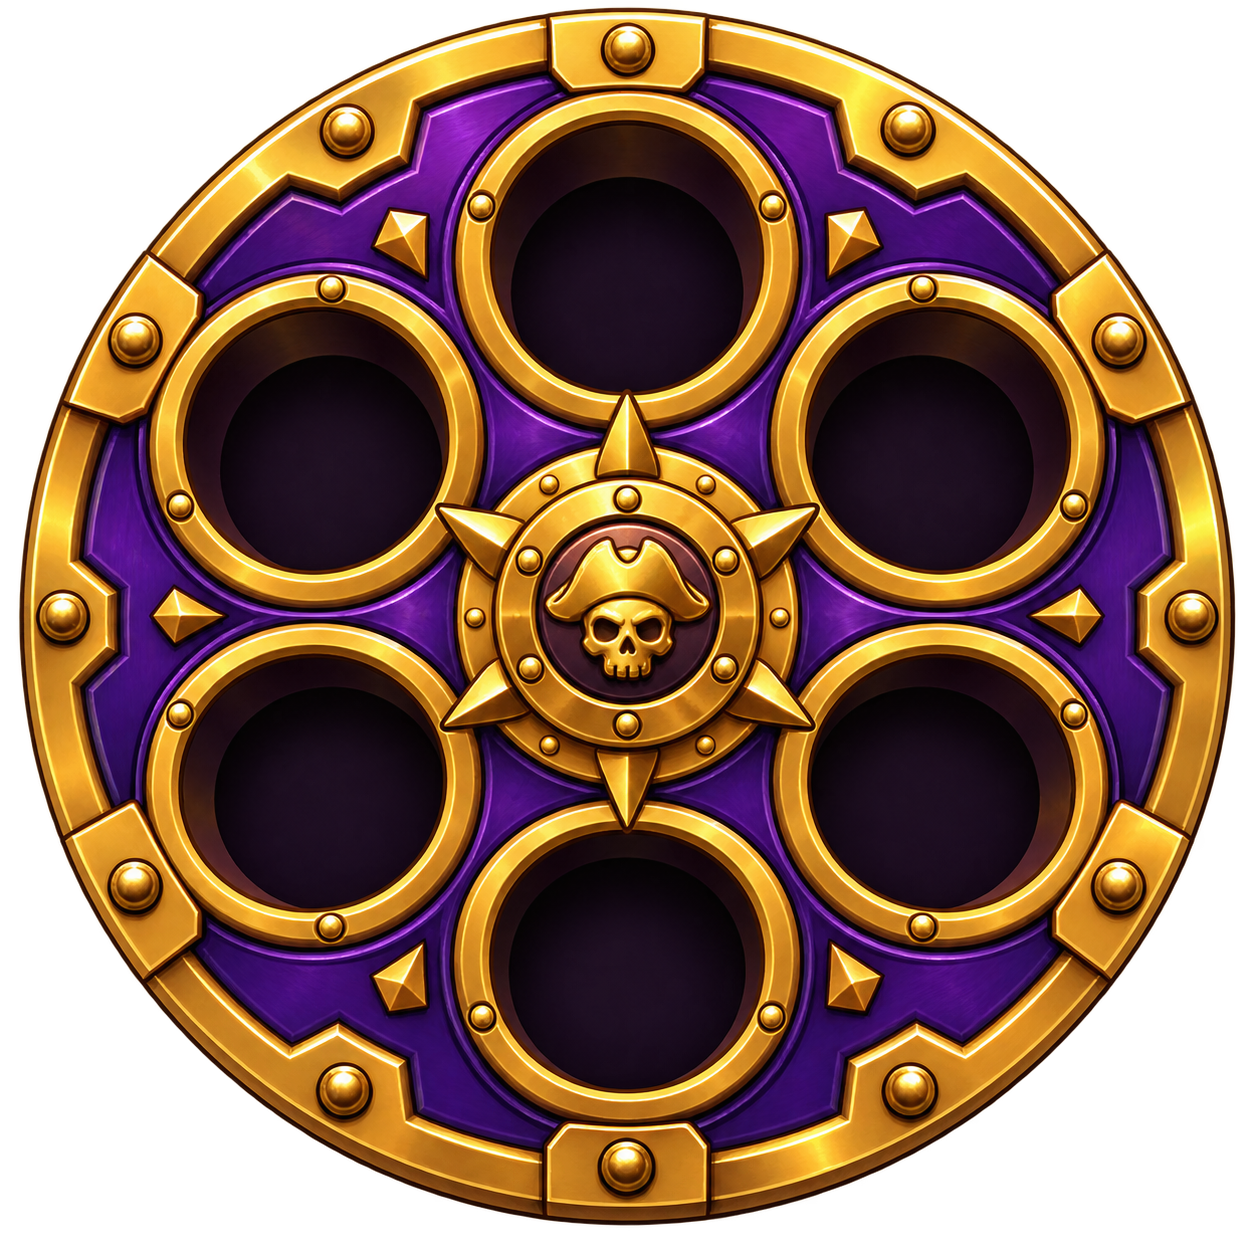
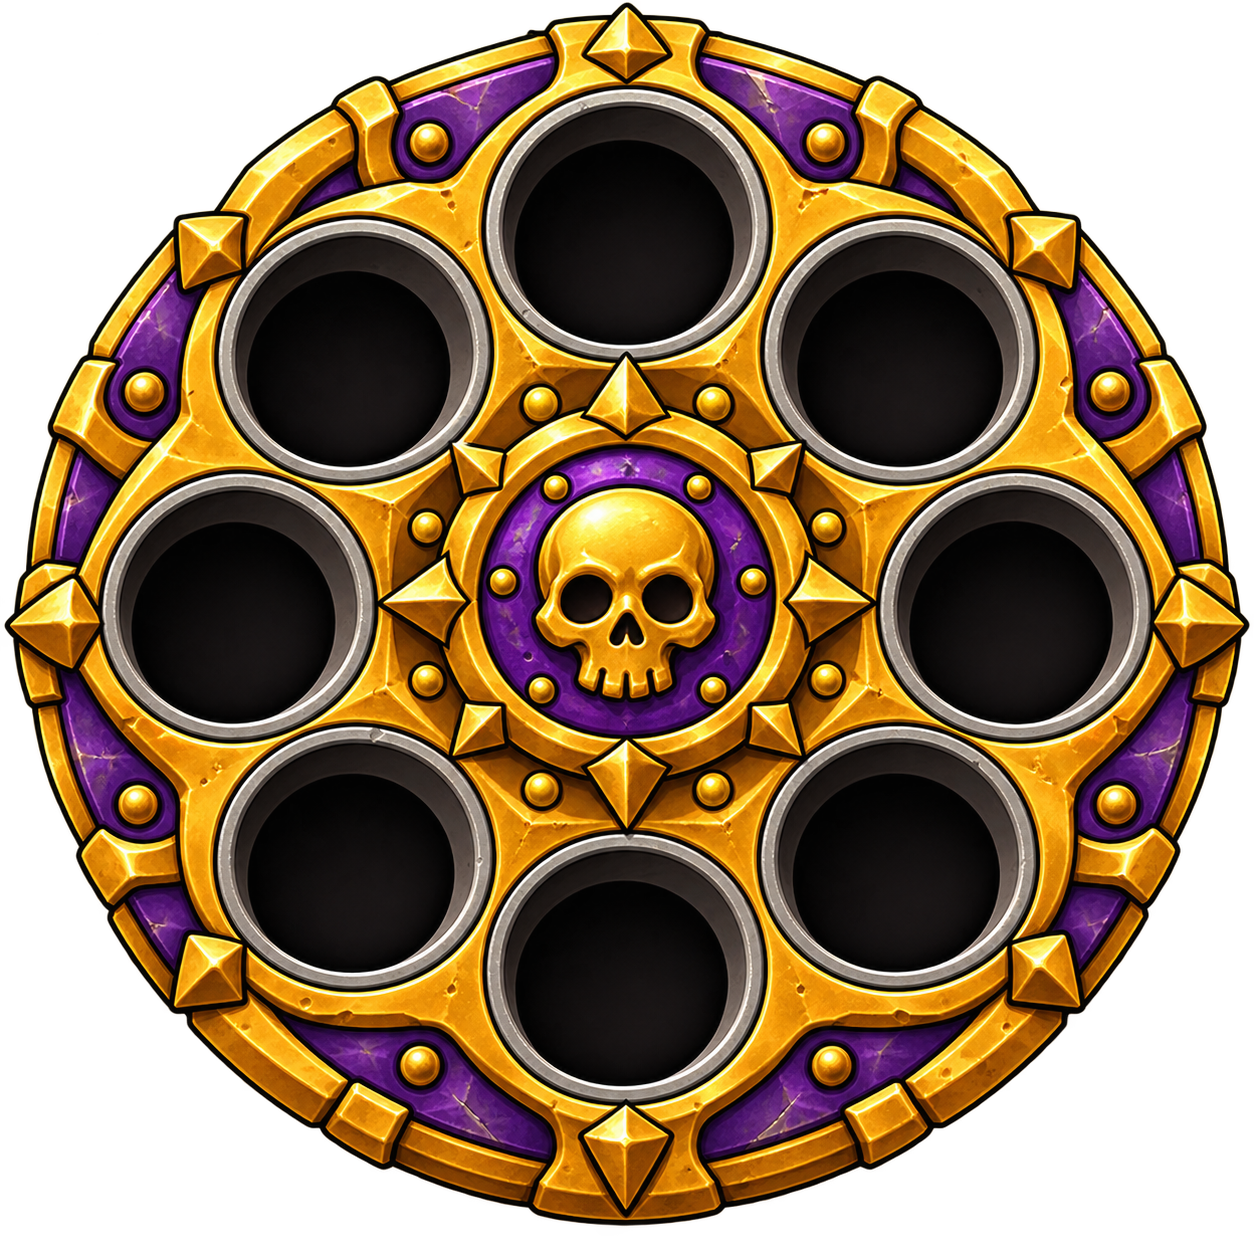
feat(barillet): tambour a 8 chambres qui tourne vraiment, trous mesures au pixel; regles en vraie modale (Echap, croix en bas, parchemin long)

diff --git a/www/js/pages/dice_match.js b/www/js/pages/dice_match.js
@@ -1352,104 +1352,124 @@ let pageRatelier = 0;
 let barilletRot = 0;
 let barilletDrague = false;
 let barilletInfo = false;
-const BARILLET_PAS = 60;   // 6 chambres, alignees sur les trous de l'asset
+const BARILLET_PAS = 45;   // 8 chambres sur l'asset, un pas de 45 degres
 
 /** La cale se rouvre a sa premiere page : on ne reprend pas ou l'on en etait
     trois parties plus tot, on reprend la ou est le jeton offert. */
 export function ratelierAuDebut() { pageRatelier = 0; }
 
-/* Poser les chambres autour du cylindre du barillet, et le rendre tournant.
-   Les jetons sont poses en absolu depuis le CENTRE du cercle (bas du bloc) et
-   projetes sur l arc du haut ; glisser a gauche/droite tourne le cylindre. */
-/* ⛔ SIX TROUS, MAIS PAS SIX BONUS : ON FAIT DEFILER. « Il montre autant de
-   bonus qu'on defile a droite et a gauche ; plus on scrolle, plus on affiche les
-   suivants. » Le cadre reste FIXE ; ce sont les jetons qui glissent de trou en
-   trou. Le trou du haut porte toujours le bonus courant ; a plus de six bonus,
-   on tourne le barillet et les chambres se rechargent avec les suivants. */
-let barilletCentre = 0;   // index du bonus pose tout en haut du barillet
+/* ⛔ LE BARILLET TOURNE POUR DE VRAI, LES JETONS DANS LEURS TROUS. « Le
+   barillet ne tourne pas quand je change de bonus » : la version a fenetre
+   glissante echangeait le contenu des chambres sans bouger le dessin — un
+   distributeur, pas un barillet. Ici le CADRE et les JETONS pivotent d'un seul
+   bloc ; ce qui change de chambre change dans la moitie basse, cachee derriere
+   les boutons, pour que plus de huit bonus restent atteignables sans que
+   l'echange se voie jamais.
 
-/* Angles (degres depuis le haut) des six trous, du plus central au plus bas :
-   on remplit d'abord le trou du haut, puis ses voisins. L'offset entier associe
-   dit quel bonus, relatif au centre, occupe chaque trou. */
-const BARILLET_TROUS = [0, -60, 60, -120, 120, 180];
-const BARILLET_OFF   = BARILLET_TROUS.map((a) => Math.round(a / 60)); // 0,-1,1,-2,2,3
+   ⚠ LES TROUS SONT MESURES, PAS SUPPOSES. Le dessin n'est pas parfaitement
+   regulier (angles a ±6°, rayons de 0,54 a 0,64) : poser les jetons sur une
+   grille ideale les ferait flotter a cote des trous — « les bonus sont mal
+   positionnes ». Chaque jeton est donc epingle sur SON trou, aux coordonnees
+   relevees au pixel dans l'asset : [angle depuis le haut, rayon du centre,
+   diametre], relatifs au rayon du tambour. */
+const BARILLET_TROUS = [
+  [-1.2, 0.640, 0.371],
+  [43.9, 0.610, 0.354],
+  [86.9, 0.605, 0.353],
+  [131.1, 0.556, 0.356],
+  [181.8, 0.543, 0.364],
+  [-129.2, 0.580, 0.354],
+  [-87.0, 0.638, 0.353],
+  [-45.9, 0.631, 0.350],
+];
 
 function disposerBarillet(cercle, donnees, ctx) {
   const slots = Array.prototype.slice.call(cercle.querySelectorAll('.dc-bonus-btn'));
+  const NC = slots.length;                 // huit chambres
   const N = donnees.length;
   if (!N) return;
   const R0 = parseFloat(getComputedStyle(cercle).getPropertyValue('--pd-rayon')) || 130;
-  const RAYON = R0 * 0.595;                 // centre exact des trous dessines dans l'asset
-  const defile = N > slots.length;          // plus de bonus que de trous : le barillet tourne
-  if (!defile) barilletCentre = 0;
-  const mod = (k) => ((k % N) + N) % N;
+  const cadre = cercle.querySelector('.dc-barillet-cadre');
+  /* Moins de neuf bonus : le tambour bute aux extremites. Au-dela, il tourne
+     sans fin et les chambres cachees se rechargent en chemin. */
+  const infini = N > NC;
+  const maxRot = infini ? Infinity : (N - 1) * BARILLET_PAS;
+  if (!infini) barilletRot = Math.max(0, Math.min(maxRot, barilletRot));
 
-  const remplir = () => {
+  const habiller = (b, d) => {
+    b.dataset.id = d.id;
+    b.dataset.nom = d.nom;
+    b.innerHTML = '<span class="dc-bonus-in"><img src="' + bonusArt(d.id)
+      + '" alt=""><span class="dc-bonus-qty">' + esc(String(d.badge)) + '</span></span>';
+    b.classList.toggle('dc-bonus-free', !!d.cadeau);
+    b.classList.toggle('dc-bonus-joue', !!d.joue);
+    const epuise = ctx.left <= 0;
+    b.classList.toggle('dc-bonus-mute', !ctx.monTour() || epuise || !!ctx.raison(d.id));
+  };
+
+  const placer = () => {
+    /* Le cran courant : quel bonus est (ou approche de) la chambre du haut. */
+    const c = Math.round(barilletRot / BARILLET_PAS);
     const nomEl = cercle.parentElement.querySelector('[data-nom]');
     slots.forEach((b, i) => {
-      const angle = BARILLET_TROUS[i];
-      const idx = defile ? mod(barilletCentre + BARILLET_OFF[i]) : (i < N ? i : -1);
-      if (idx < 0) { b.hidden = true; b.onclick = null; return; }  // trou vide (peu de bonus)
-      b.hidden = false;
-      const d = donnees[idx];
-      b.dataset.id = d.id;
-      b.dataset.nom = d.nom;
-      b.innerHTML = '<span class="dc-bonus-in"><img src="' + bonusArt(d.id)
-        + '" alt=""><span class="dc-bonus-qty">' + esc(String(d.badge)) + '</span></span>';
-      b.classList.toggle('dc-bonus-free', !!d.cadeau);
-      b.classList.toggle('dc-bonus-joue', !!d.joue);
-      /* Pose le jeton au CENTRE du trou (rotation puis contre-rotation pour le
-         garder droit). Le trou du haut est en avant, plus grand ; les autres
-         reculent legerement. Le cadre, lui, ne tourne pas. */
-      const central = Math.abs(angle) < 1;
-      const proche = Math.abs(angle) <= 61;
-      const scale = central ? 1.1 : (proche ? 0.92 : 0.76);
-      b.style.transform = 'translate(-50%,-50%) rotate(' + angle + 'deg) translateY(-'
-        + RAYON + 'px) rotate(' + (-angle) + 'deg) scale(' + scale + ')';
-      b.style.opacity = proche ? '1' : '0.88';
-      b.style.zIndex = String(100 - Math.round(Math.abs(angle)));
-      b.classList.toggle('dc-bonus-centre', central);
-      const epuise = ctx.left <= 0;
-      const pourquoi = ctx.raison(d.id);
-      b.classList.toggle('dc-bonus-mute', !ctx.monTour() || epuise || !!pourquoi);
-      if (central && nomEl) nomEl.textContent = d.nom || '';
+      const [angTrou, rayRel, diamRel] = BARILLET_TROUS[i];
+      /* La chambre i, une fois le tambour tourne, se presente a cet angle. */
+      const rel = angTrou - barilletRot;
+      /* Quel bonus occupe cette chambre : son ecart de crans au sommet. */
+      let s = (((i - c) % NC) + NC) % NC;
+      if (s > NC / 2) s -= NC;
+      let k = c + s;
+      if (infini) k = ((k % N) + N) % N;
+      const vide = k < 0 || k >= N;
+      b.hidden = vide;
+      if (!vide && b.dataset.k !== String(k)) { b.dataset.k = String(k); habiller(b, donnees[k]); }
+      const taille = diamRel * R0 * 0.88;
+      b.style.width = taille.toFixed(1) + 'px';
+      b.style.height = taille.toFixed(1) + 'px';
+      b.style.transform = 'translate(-50%,-50%) rotate(' + rel + 'deg) translateY(-'
+        + (rayRel * R0).toFixed(1) + 'px) rotate(' + (-rel) + 'deg)';
+      const relNorm = ((rel % 360) + 540) % 360 - 180;   // dans [-180, 180)
+      b.style.zIndex = String(200 - Math.round(Math.abs(relNorm)));
+      const auSommet = Math.abs(relNorm) < BARILLET_PAS / 2;
+      b.classList.toggle('dc-bonus-centre', !vide && auSommet);
+      if (auSommet && !vide && nomEl) nomEl.textContent = b.dataset.nom || '';
     });
+    /* Le cadre tourne du MEME angle : les trous dessines suivent les jetons. */
+    if (cadre) cadre.style.transform = 'rotate(' + (-barilletRot) + 'deg)';
   };
-  remplir();
+  placer();
 
-  /* On tourne le barillet en glissant a gauche/droite : chaque pas d'un demi-cran
-     recharge les chambres avec les bonus suivants. Fond violet oblige, le
-     glissement ne referme pas la cale. Un seul cran par ~46 px, accrochage net. */
-  if (defile) {
-    const PAS_PX = 46;
-    let actif = false, x0 = 0, c0 = 0, bouge = 0;
-    const down = (ev) => {
-      actif = true; bouge = 0; x0 = ev.clientX; c0 = barilletCentre;
-      if (cercle.setPointerCapture) { try { cercle.setPointerCapture(ev.pointerId); } catch (_) { /* rien */ } }
-    };
-    const move = (ev) => {
-      if (!actif) return;
-      const dx = ev.clientX - x0;
-      if (Math.abs(dx) > bouge) bouge = Math.abs(dx);
-      const c = c0 - Math.round(dx / PAS_PX);
-      if (c !== barilletCentre) { barilletCentre = c; remplir(); }
-    };
-    const up = () => {
-      if (!actif) return;
-      actif = false;
-      if (bouge > 6) { barilletDrague = true; setTimeout(() => { barilletDrague = false; }, 60); }
-    };
-    cercle.addEventListener('pointerdown', down);
-    cercle.addEventListener('pointermove', move);
-    cercle.addEventListener('pointerup', up);
-    cercle.addEventListener('pointercancel', up);
-  }
+  /* Glisser a gauche/droite fait pivoter le tambour ; on lache, il s'accroche
+     au cran le plus proche. Fond violet oblige, le geste ne ferme pas la cale. */
+  let actif = false, x0 = 0, rot0 = 0, bouge = 0;
+  const down = (ev) => {
+    actif = true; bouge = 0; x0 = ev.clientX; rot0 = barilletRot;
+    if (cercle.setPointerCapture) { try { cercle.setPointerCapture(ev.pointerId); } catch (_) { /* rien */ } }
+  };
+  const move = (ev) => {
+    if (!actif) return;
+    const dx = ev.clientX - x0;
+    if (Math.abs(dx) > bouge) bouge = Math.abs(dx);
+    barilletRot = rot0 - dx * 0.42;
+    if (!infini) barilletRot = Math.max(0, Math.min(maxRot, barilletRot));
+    placer();
+  };
+  const up = () => {
+    if (!actif) return;
+    actif = false;
+    if (bouge > 6) { barilletDrague = true; setTimeout(() => { barilletDrague = false; }, 60); }
+    barilletRot = Math.round(barilletRot / BARILLET_PAS) * BARILLET_PAS;
+    if (!infini) barilletRot = Math.max(0, Math.min(maxRot, barilletRot));
+    placer();
+  };
+  cercle.addEventListener('pointerdown', down);
+  cercle.addEventListener('pointermove', move);
+  cercle.addEventListener('pointerup', up);
+  cercle.addEventListener('pointercancel', up);
 
-  /* ⛔ CHAQUE CHAMBRE SE JOUE ET SE DECRIT. Un clic court joue le bonus qui s'y
-     trouve A CET INSTANT (lu dans le dataset, car il change quand on tourne) ; un
-     maintien long montre sa description au-dessus du barillet. Le glissement (on
-     tourne) avale le clic. Les elements sont recrees a chaque rendu du ratelier,
-     donc les ecouteurs ne s'empilent pas. */
+  /* Chaque chambre se joue (clic court, sur ce qu'elle contient A CET instant)
+     et se decrit (maintien long). Le glissement avale le clic. Les elements
+     sont recrees a chaque rendu : les ecouteurs ne s'empilent pas. */
   slots.forEach((b) => {
     b.onclick = (ev) => {
       ev.preventDefault();
@@ -1546,7 +1566,7 @@ export function renderBonusRack() {
   rack.innerHTML = '<div class="dc-barillet">'
     + '<div class="dc-barillet-nom" data-nom></div>'
     + '<div class="dc-barillet-cercle"><div class="dc-barillet-cadre"></div>'
-    + '<button class="dc-bonus-btn"></button>'.repeat(6)
+    + '<button class="dc-bonus-btn"></button>'.repeat(8)
     + '</div>'
     + '<div class="dc-barillet-info" data-info hidden></div>'
     + '</div>';

diff --git a/www/js/pages/dice_panels.js b/www/js/pages/dice_panels.js
@@ -46,13 +46,21 @@ async function api(chemin, methode, corps) {
    schemas (regle_1..6.png) sont l'encre sepia des dessins du fond, un par
    regle ; la septieme (le capitaine) n'en a pas, elle parle d'un personnage
    qu'on voit deja sur le pont. */
-export function renderRules(body) {
+/* ⛔ LES REGLES SONT UNE MODALE, PAS UNE PAGE. « C'est une modale qu'on
+   affiche AU-DESSUS du contenu, qui prend Echap pour se fermer, avec le bouton
+   fermer en bas. » Le parchemin flotte donc sur un voile sombre, par-dessus ce
+   que le joueur regardait ; Echap, la croix du bas ou un clic sur le voile la
+   referment, et l'on retrouve l'ecran exactement ou on l'avait laisse. */
+export function ouvrirRegles() {
+  if (document.querySelector('.dc-regles-voile')) return;
   const regle = (i, texte) => `
       <li>
         <p>${texte}</p>
         <img class="dc-regle-schema" src="${ASSETS}img/regle_${i}.png" alt="" loading="lazy">
       </li>`;
-  body.innerHTML = `
+  const voile = document.createElement('div');
+  voile.className = 'dc-regles-voile';
+  voile.innerHTML = `
     <div class="dc-parchemin">
       <h3 class="dc-parchemin-titre">${esc(t('rules.title'))}</h3>
       <div class="dc-parchemin-corps">
@@ -66,7 +74,27 @@ export function renderRules(body) {
           <li><p>${t('rules.7')}</p></li>
         </ol>
       </div>
+      <button class="pd-btn-icone dc-regles-fermer" data-fermer
+              title="${esc(t('set.close'))}" aria-label="${esc(t('set.close'))}">
+        <img src="${ASSETS}img/icon_close.png" alt="">
+      </button>
     </div>`;
+  const hote = $('#dicewrap') || document.body;
+  hote.appendChild(voile);
+  const fermer = () => {
+    document.removeEventListener('keydown', surTouche, true);
+    voile.remove();
+  };
+  const surTouche = (ev) => {
+    if (ev.key !== 'Escape') return;
+    ev.stopPropagation();
+    ev.preventDefault();
+    fermer();
+  };
+  document.addEventListener('keydown', surTouche, true);
+  voile.querySelector('[data-fermer]').onclick = fermer;
+  /* Le voile ferme, le parchemin non : on peut poser le doigt pour scroller. */
+  voile.addEventListener('click', (ev) => { if (ev.target === voile) fermer(); });
 }
 
 /* Le nom et la description des bonus viennent de la BASE, en anglais : le

diff --git a/www/css/dice.css b/www/css/dice.css
@@ -1476,10 +1476,23 @@
    garde ses proportions (2:3) et ne defile pas. C'est le CORPS — la fenetre de
    papier a l'interieur du cadre — qui scrolle. Le texte passe a l'encre sepia :
    sur du papier clair, le blanc du theme serait illisible. */
+/* Le voile : la modale des regles couvre TOUT, et un clic a cote la ferme. */
+#dicewrap .dc-regles-voile {
+  position: fixed;
+  inset: 0;
+  z-index: 90;
+  display: flex;
+  align-items: center;
+  justify-content: center;
+  background: rgba(10, 4, 26, .62);
+  animation: dc-gel-vient .18s ease-out;
+}
 #dicewrap .dc-parchemin {
   position: relative;
-  width: 100%;
-  aspect-ratio: 1024 / 1536;
+  /* La taille suit l'asset (941 x 1672) et se plie a l'ecran : jamais plus
+     large que la fenetre, jamais plus haut qu'elle. */
+  width: min(90vw, calc(86vh * 0.5628));
+  aspect-ratio: 941 / 1672;
   margin: 0 auto;
   background: url(../dice/img/regles_fond.png) center / 100% 100% no-repeat;
 }
@@ -1487,10 +1500,10 @@
 #dicewrap .dc-parchemin-titre {
   padding: 0;
   position: absolute;
-  top: 10%;
-  left: 26%;
-  right: 26%;
-  height: 7.5%;
+  top: 7.8%;
+  left: 25%;
+  right: 25%;
+  height: 6.2%;
   display: flex;
   align-items: center;
   justify-content: center;
@@ -1510,7 +1523,7 @@
 }
 #dicewrap .dc-parchemin-corps {
   position: absolute;
-  inset: 19% 14% 24% 14%;
+  inset: 16.5% 15% 17% 15%;
   overflow-y: auto;
   -webkit-overflow-scrolling: touch;
   overscroll-behavior: contain;
@@ -1533,6 +1546,17 @@
   width: min(62%, 190px);
   margin: 2px auto 10px;
 }
+
+/* La croix de fermeture, EN BAS, posee sur le rouleau du parchemin — la ou la
+   maquette des reglages met la sienne. */
+#dicewrap .dc-regles-fermer {
+  position: absolute;
+  left: 50%;
+  bottom: 1.2%;
+  transform: translateX(-50%);
+  z-index: 3;
+}
+#dicewrap .dc-regles-fermer img { width: 52px; height: 52px; display: block; }
 
 #dicewrap .dc-shop { display: flex; flex-direction: column; gap: 11px; }
 

diff --git a/www/js/pages/dice.js b/www/js/pages/dice.js
@@ -30,7 +30,7 @@ import { S, UI, ASSETS, PIECE_MAUDITE, screen, bonusArt, preloadAssets,
          envoyerCoup } from './dice_state.js';
 import { onMatch, onState, renderBonusRack, oublierEtat } from './dice_match.js';
 import { onOver } from './dice_end.js';
-import { renderRules, renderShop, renderRanking, renderSucces } from './dice_panels.js';
+import { ouvrirRegles, renderShop, renderRanking, renderSucces } from './dice_panels.js';
 import { renderReplays, ouvrirRejeu, fermerLecteur } from './dice_replay.js';
 import { ouvrirPartieHorsLigne } from './dice_solo.js';
 import * as cale from './dice_cale.js';
@@ -967,6 +967,10 @@ function showMenu() {
 
 /** Ouvrir une page depuis l'exterieur — les reglages y envoient les regles. */
 export function ouvrirPanneau(nom) {
+  /* ⛔ LES REGLES NE SONT PLUS UNE PAGE. Elles s'ouvrent en MODALE au-dessus de
+     ce que le joueur regarde — voir `ouvrirRegles` — et laissent la navigation
+     des pages tranquille. */
+  if (nom === 'rules') { ouvrirRegles(); return; }
   if (S.panel !== nom) togglePanel(nom);
 }
 
@@ -1142,8 +1146,7 @@ function marquerOnglets() {
 function refreshPanel() {
   if (!S.panel) return;
   const body = $('#dc-panel .dc-panel-in');
-  if (S.panel === 'rules') renderRules(body);
-  else if (S.panel === 'shop') renderShop(body);
+  if (S.panel === 'shop') renderShop(body);
   else if (S.panel === 'ranking') renderRanking(body);
   else if (S.panel === 'succes') renderSucces(body);
   else if (S.panel === 'replay') renderReplays(body);
